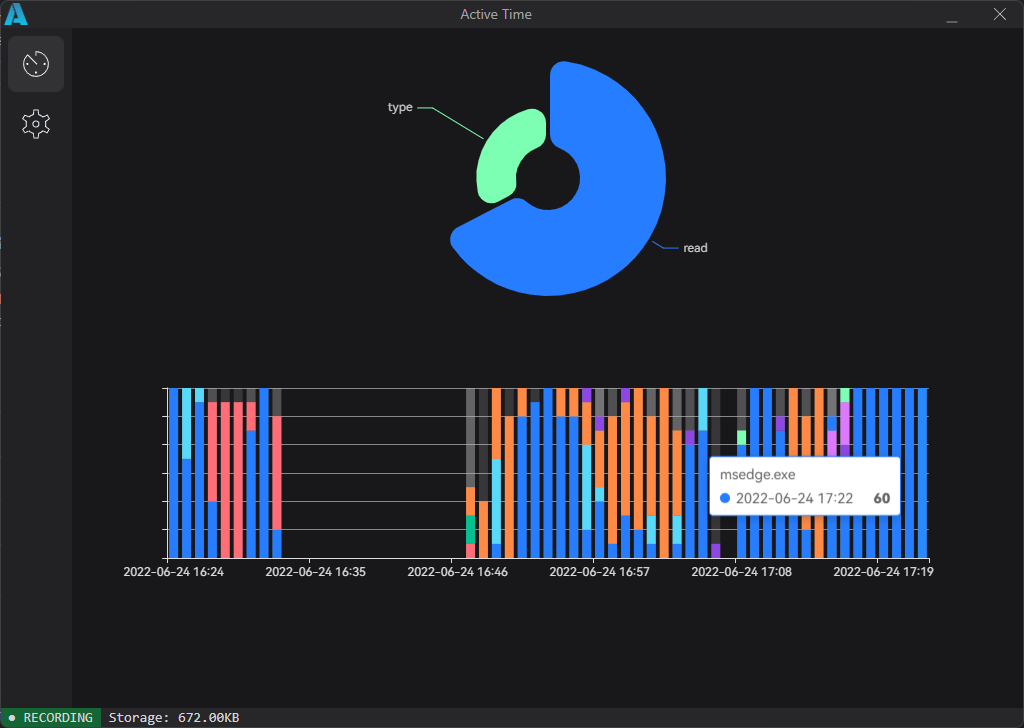
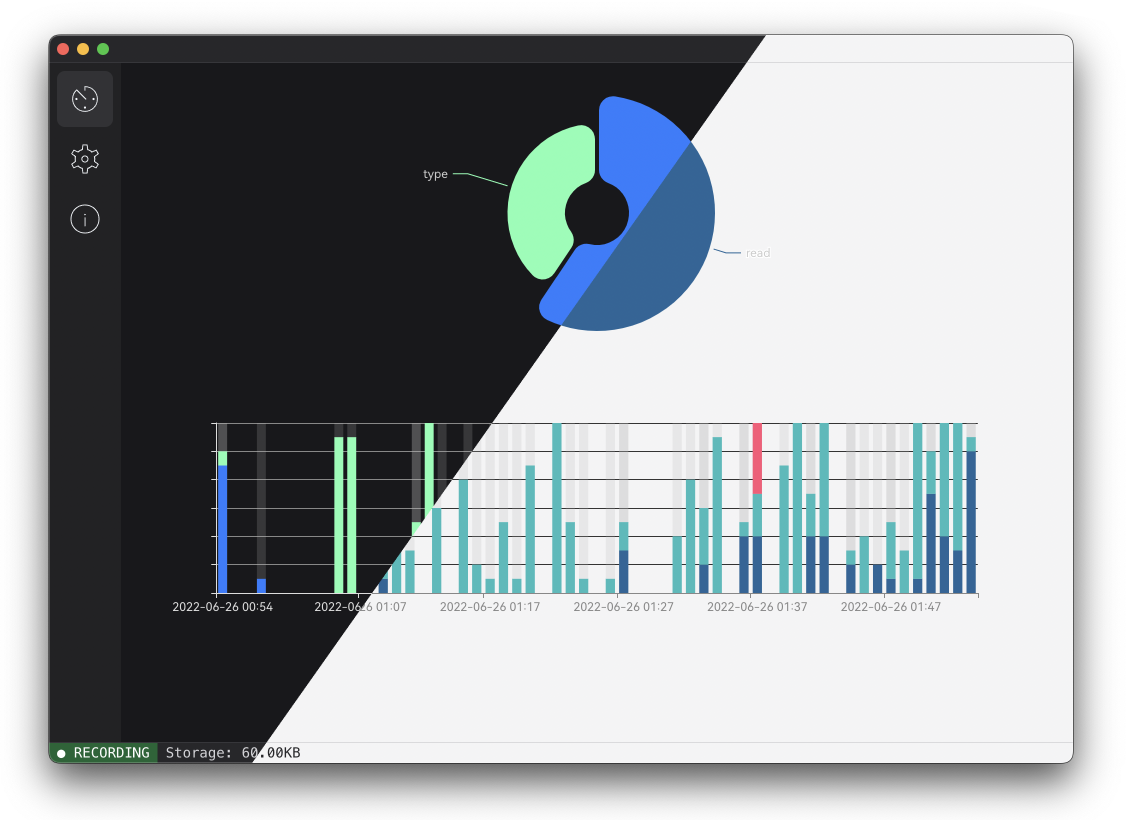
fix: mac exit

diff --git a/src/main/main.ts b/src/main/main.ts
@@ -21,6 +21,10 @@ import MenuBuilder from './menu';
 import { resolveHtmlPath } from './util';
 import { DB, MinuteRecord } from './db';
 
+const data = {
+  closeable: false,
+};
+
 if (process.env.NODE_ENV === 'production') {
   const sourceMapSupport = require('source-map-support');
   sourceMapSupport.install();
@@ -60,8 +64,6 @@ export default class AppUpdater {
   }
 }
 
-let mainWindow: BrowserWindow | null = null;
-
 function getSystemInfo() {
   return {
     platform: os.platform(),
@@ -72,6 +74,7 @@ function getSystemInfo() {
 }
 
 function setIpcHandle(win: BrowserWindow) {
+  ipcMain.removeAllListeners();
   ipcMain.handle('ready', async () => {
     const systemInfo = getSystemInfo();
     return { systemInfo };
@@ -87,9 +90,11 @@ function setIpcHandle(win: BrowserWindow) {
     await DB.cleanData();
   });
   ipcMain.handle('hide', async () => {
-    win.hide();
+    data.closeable = true;
+    win.minimize();
   });
   ipcMain.handle('quit', async () => {
+    data.closeable = true;
     app.quit();
   });
   ipcMain.handle('toggle-record', (_, val) => {
@@ -111,33 +116,6 @@ function setIpcHandle(win: BrowserWindow) {
   });
 }
 
-function setTray() {
-  const trayMenuTemplate = [
-    {
-      label: 'Show',
-      click: () => {
-        mainWindow?.show();
-      },
-    },
-    {
-      label: 'Quit',
-      click: () => {
-        app.quit();
-      },
-    },
-  ];
-  const iconPath = getAssetPath('icons/16x16.png');
-  const appTray = new Tray(iconPath);
-  const contextMenu = Menu.buildFromTemplate(trayMenuTemplate);
-  mainWindow?.show();
-  appTray.setToolTip('Active Time');
-  appTray.setContextMenu(contextMenu);
-  appTray.on('click', () => {
-    mainWindow?.show();
-  });
-  return appTray;
-}
-
 const installExtensions = async () => {
   const installer = require('electron-devtools-installer');
   const forceDownload = !!process.env.UPGRADE_EXTENSIONS;
@@ -155,7 +133,7 @@ const createWindow = async () => {
   if (isDebug) {
     await installExtensions();
   }
-  mainWindow = new BrowserWindow({
+  const mainWindow = new BrowserWindow({
     show: false,
     width: 1024,
     height: 728,
@@ -182,10 +160,13 @@ const createWindow = async () => {
     }
   });
 
-  mainWindow.on('closed', () => {
-    mainWindow = null;
+  mainWindow.on('close', (e: Electron.Event) => {
+    if (!data.closeable) {
+      mainWindow.hide();
+      app.dock.hide();
+      e.preventDefault();
+    }
   });
-
   const menuBuilder = new MenuBuilder(mainWindow);
   menuBuilder.buildMenu();
 
@@ -194,7 +175,10 @@ const createWindow = async () => {
     shell.openExternal(edata.url);
     return { action: 'deny' };
   });
-
+  mainWindow.on('closed', () => {});
+  mainWindow.on('minimize', () => {
+    data.closeable = true;
+  });
   // Remove this if your app does not use auto updates
   try {
     // eslint-disable-next-line
@@ -205,89 +189,109 @@ const createWindow = async () => {
   return mainWindow;
 };
 
-/**
- * Add event listeners...
- */
-
-app.on('window-all-closed', () => {
-  // Respect the OSX convention of having the application in memory even
-  // after all windows have been closed
-  if (process.platform !== 'darwin') {
-    app.quit();
-  }
-});
+function setTray(win: BrowserWindow) {
+  const trayMenuTemplate = [
+    {
+      label: 'Show',
+      click: () => {
+        data.closeable = false;
+        win.show();
+        app.dock.show();
+      },
+    },
+    {
+      label: 'Hide',
+      click: () => {
+        data.closeable = true;
+        app.dock.hide();
+        win.hide();
+      },
+    },
+    {
+      label: 'Exit',
+      click: () => {
+        win?.close();
+        data.closeable = true;
+        app.quit();
+      },
+    },
+  ];
+  const iconPath = getAssetPath('icons/16x16.png');
+  const appTray = new Tray(iconPath);
+  const contextMenu = Menu.buildFromTemplate(trayMenuTemplate);
+  appTray.setToolTip('Active Time');
+  appTray.setContextMenu(contextMenu);
+  return appTray;
+}
 
 async function start() {
   await app.whenReady();
   await DB.sync();
   const win = await createWindow();
-  setTray();
-  function detectActive() {
-    let secondData = new Map();
-    let event = new Map();
-    cron.schedule('* * * * *', async (now) => {
-      const curDatetime = new Date(
-        now.getTime() - 1 * 60 * 1000 - (now.getTime() % (1000 * 60))
-      );
-      secondData.forEach(async (v, k) => {
-        try {
-          const key = JSON.parse(k);
-          const record = await MinuteRecord.create({
-            program: key.program,
-            title: key.title,
-            event: key.event,
-            timestamp: curDatetime,
-            seconds: v,
-          });
-          console.log(record.toJSON());
-        } catch (e) {
-          console.log(e);
-        }
-      });
-      secondData = new Map();
-    });
+  setTray(win);
+  setIpcHandle(win);
+}
 
-    setInterval(async () => {
+function detectActive() {
+  let secondData = new Map();
+  let event = new Map();
+  cron.schedule('* * * * *', async (now) => {
+    const curDatetime = new Date(
+      now.getTime() - 1 * 60 * 1000 - (now.getTime() % (1000 * 60))
+    );
+    secondData.forEach(async (v, k) => {
       try {
-        if (event.size > 0) {
-          const activeWindowsInfo = await activeWindows().getActiveWindow();
-          const eventType =
-            (event.get('type') ?? 0) > settings.checkInterval ? 'type' : 'read';
-          const keyObj = {
-            program: activeWindowsInfo.windowClass,
-            title: activeWindowsInfo.windowName,
-            event: eventType,
-          };
-          const key = JSON.stringify(keyObj);
-          secondData.set(
-            key,
-            (secondData.get(key) ?? 0) + settings.checkInterval
-          );
-          win.webContents.send('active-event', {
-            event,
-            activeWindowsInfo,
-          });
-          event = new Map();
-        }
+        const key = JSON.parse(k);
+        const record = await MinuteRecord.create({
+          program: key.program,
+          title: key.title,
+          event: key.event,
+          timestamp: curDatetime,
+          seconds: v,
+        });
+        console.log(record.toJSON());
       } catch (e) {
         console.log(e);
       }
-    }, 1000 * settings.checkInterval);
-    uIOhook.on('keydown', () => {
-      event.set('type', (event.get('type') ?? 0) + 1);
     });
-    uIOhook.on('mousedown', () => {
-      event.set('read', (event.get('read') ?? 0) + 1);
-    });
-    uIOhook.on('mousemove', () => {
-      event.set('read', (event.get('read') ?? 0) + 1);
-    });
-    uIOhook.on('wheel', () => {
-      event.set('read', (event.get('read') ?? 0) + 1);
-    });
-    uIOhook.start();
-  }
-  setIpcHandle(win);
-  detectActive();
+    secondData = new Map();
+  });
+  setInterval(async () => {
+    try {
+      if (event.size > 0) {
+        const activeWindowsInfo = await activeWindows().getActiveWindow();
+        const eventType =
+          (event.get('type') ?? 0) > settings.checkInterval ? 'type' : 'read';
+        const keyObj = {
+          program: activeWindowsInfo.windowClass,
+          title: activeWindowsInfo.windowName,
+          event: eventType,
+        };
+        const key = JSON.stringify(keyObj);
+        secondData.set(
+          key,
+          (secondData.get(key) ?? 0) + settings.checkInterval
+        );
+
+        event = new Map();
+      }
+    } catch (e) {
+      console.log(e);
+    }
+  }, 1000 * settings.checkInterval);
+  uIOhook.on('keydown', () => {
+    event.set('type', (event.get('type') ?? 0) + 1);
+  });
+  uIOhook.on('mousedown', () => {
+    event.set('read', (event.get('read') ?? 0) + 1);
+  });
+  uIOhook.on('mousemove', () => {
+    event.set('read', (event.get('read') ?? 0) + 1);
+  });
+  uIOhook.on('wheel', () => {
+    event.set('read', (event.get('read') ?? 0) + 1);
+  });
+  uIOhook.start();
 }
+detectActive();
 start().catch(console.log);

diff --git a/src/renderer/App.tsx b/src/renderer/App.tsx
@@ -323,7 +323,7 @@ function TitleBar() {
   }, []);
   return (
     <div
-      className="flex justify-between items-center dark:bg-zinc-800 z-10 bg-zinc-100 w-full h-7"
+      className="flex justify-between items-center dark:bg-zinc-800 z-10 bg-zinc-100 w-full h-7 border-b border-zinc-500/20"
       style={{ WebkitAppRegion: 'drag' } as any}
     >
       {systemInfo.platform !== 'darwin' && (
@@ -517,7 +517,7 @@ function App() {
           </div>
         </div>
 
-        <div className="z-20 dark:bg-zinc-800 bottom-0 w-full flex font-mono text-sm">
+        <div className="z-20 dark:bg-zinc-800 bottom-0 w-full flex font-mono text-sm border-t border-zinc-500/20">
           <RecordingLabel />
           <StorageLabel />
         </div>

diff --git a/src/renderer/App.css b/src/renderer/App.css
@@ -11,11 +11,11 @@
     @apply j-btn;
   }
   .j-normal-btn {
-    @apply bg-zinc-500/20 hover:bg-zinc-500/40 border border-zinc-500/40 focus-visible:ring-zinc-600;
+    @apply dark:bg-zinc-500/20 bg-zinc-100 dark:hover:bg-zinc-500/40 hover:bg-zinc-200 border border-zinc-500/40 focus-visible:ring-zinc-600;
     @apply j-btn;
   }
   .j-btn-active {
-    @apply bg-zinc-500/60;
+    @apply dark:bg-zinc-500/60 bg-zinc-300;
   }
   .j-body-color {
     @apply dark:text-zinc-300 text-zinc-800 dark:bg-zinc-900 bg-zinc-100 dark:fill-slate-100;

diff --git a/CHANGELOG.md b/CHANGELOG.md
@@ -1,5 +1,14 @@
 # Change log
 
+## [0.1.3 - Bug Fix](https://github.com/Jannchie/active-time/releases/tag/v0.1.3)
+
+**What's Changed**
+
+- New window control logic is used:
+  - On the Mac, clicking the Close window button will only hide the window.
+  - The exit button in the tray will actually exit the program.
+- Beautify the style.
+
 ## [0.1.2 - Bug Fix](https://github.com/Jannchie/active-time/releases/tag/v0.1.2)
 
 **What's Changed**
